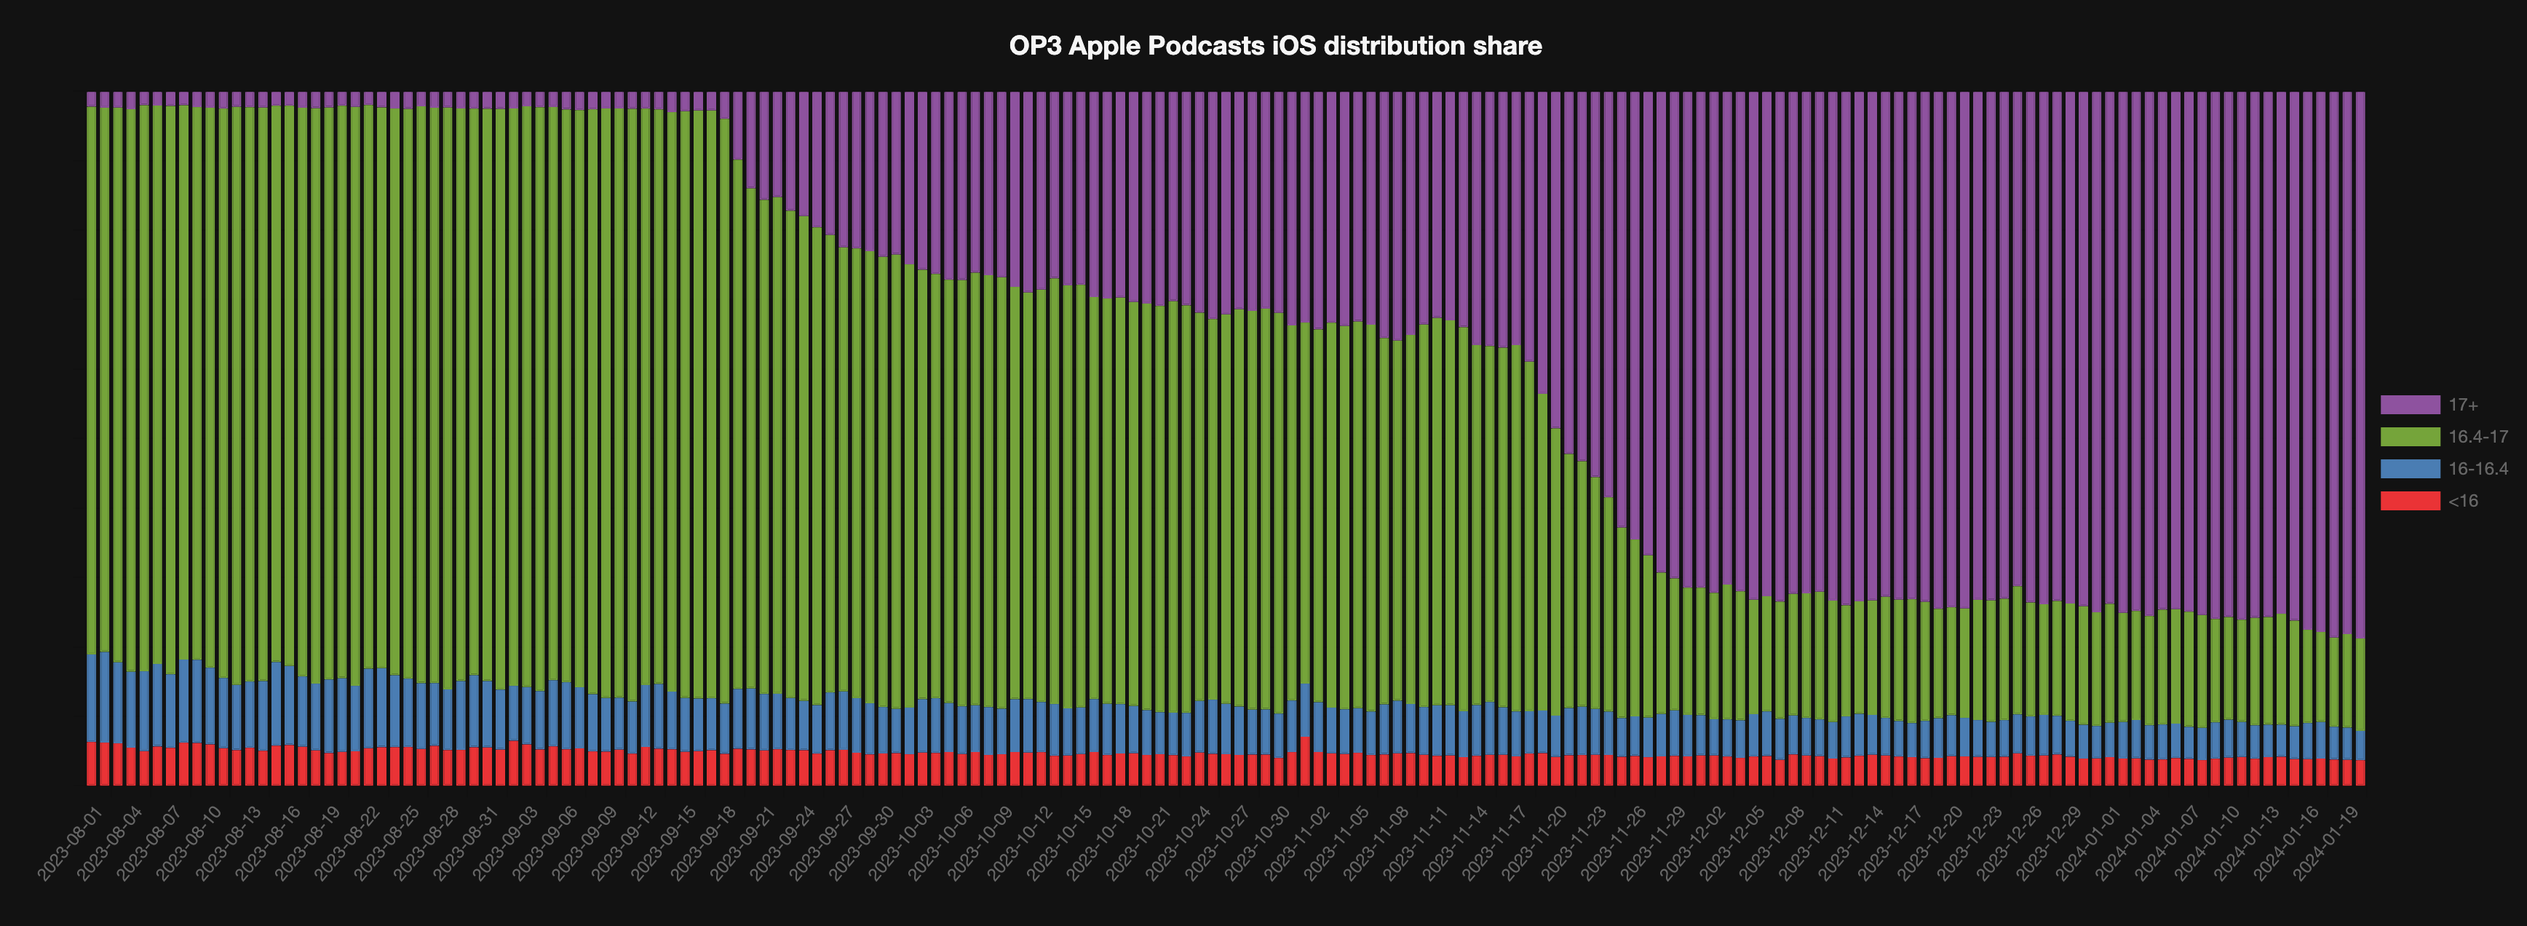
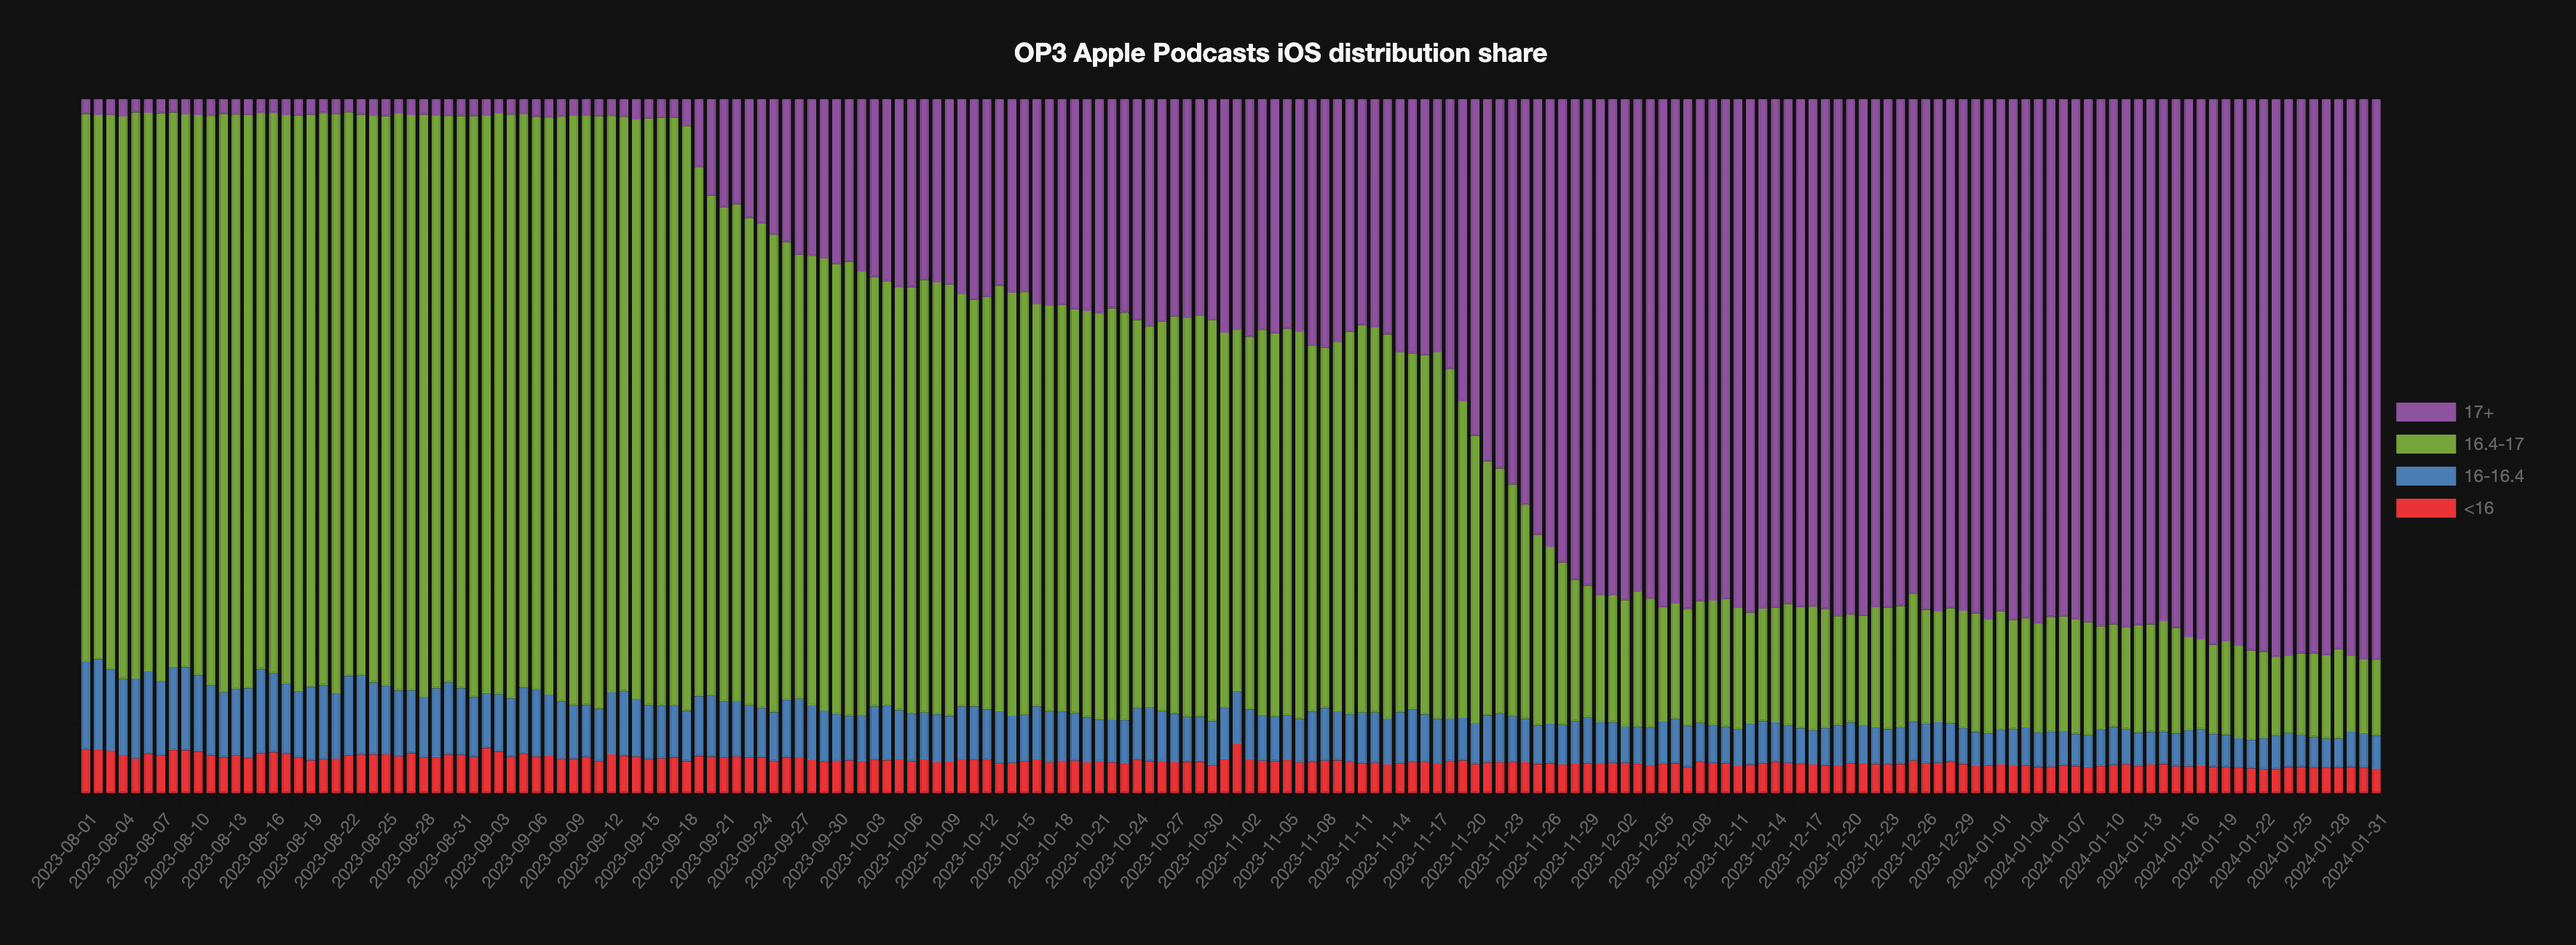
Updated ios17 post.

diff --git a/content/posts/tracking-apple-podcasts-ios17-changes.md b/content/posts/tracking-apple-podcasts-ios17-changes.md
@@ -5,11 +5,11 @@ slug: "tracking-apple-podcasts-ios17-changes"
 images:
 - tracking-apple-podcasts-ios17-changes.png
 date: 2023-11-24T13:17:00-06:00
-lastmod: 2024-01-21T10:31:00-06:00
+lastmod: 2024-02-01T17:18:00-06:00
 draft: false
 ---
 
-_(Updated with data through 2024-01-20)_
+_(Updated with data through 2024-01-31)_
 
 Apple made a change to [auto-downloading in Apple Podcasts in iOS 17](https://podcasters.apple.com/5349-ios-17-automatic-download-improvements), are we seeing a difference in downloads?
 
@@ -200,9 +200,20 @@ Date	17+	16.4-17	16-16.4	<16
 2024-01-18	78.66424640562423	12.837467945947504	4.722390295905725	3.7758953525225456
 2024-01-19	78.15487072342648	13.474797597283885	4.62653434317054	3.743797336119091
 2024-01-20	78.79501017429001	13.293815801114746	4.221887994337786	3.6892860302574535
+2024-01-21	79.48834903321766	12.856717897868123	4.095190877540903	3.5597421913733265
+2024-01-22	79.67682591017213	12.43716384856048	4.469129726626123	3.416880514641263
+2024-01-23	80.3807709521569	11.373782118224906	4.773981799194391	3.471465130423806
+2024-01-24	80.2591364478482	11.087641457111502	4.88417922424271	3.7690428707975876
+2024-01-25	79.87899106838839	11.711935880981692	4.645223814138663	3.7638492364912652
+2024-01-26	79.8859645902923	12.04223714960418	4.434166574899975	3.6376316852035386
+2024-01-27	80.13621658436915	12.027924399795676	4.202281627788183	3.633577388046995
+2024-01-28	79.29231265405792	12.868299200626598	4.174249579580271	3.6651385657352162
+2024-01-29	80.24963010736371	10.894760802761864	5.095982396904283	3.759626692970143
+2024-01-30	80.70270091718875	10.670439656026689	4.991136411182436	3.6357230156021187
+2024-01-31	80.79512318049272	10.933243732974931	4.774819099276397	3.4968139872559494
 {{< /graph >}}
 
-We can see that iOS 17 is rolling out quite quickly, with a few beta testers in August, then an initial rise after September 18, a large increase starting November 19, plateauing in December to a level where _over 3 out of 4 AP listeners have iOS 17+_, inching closer to 80%.
+We can see that iOS 17 is rolling out quite quickly, with a few beta testers in August, then an initial rise after September 18, a large increase starting November 19, plateauing in December/January to a level where _over 4 out of 5 AP listeners have iOS 17+_, crossing 80%.
 
 We show pre-post 16.4 as well, since that was when Apple Podcasts made another change, [no longer using the AppleCoreMedia user-agents for some requests](/apple-podcasts-vs-applecoremedia).
 
@@ -531,6 +542,17 @@ Date	Apple Podcasts	AppleCoreMedia	Spotify	NRC	Other
 2024-01-18	20.79353369777717	2.1656312786497627	54.74576298191749	4.584918016070157	17.710154025585425
 2024-01-19	27.95388988358858	3.199262776748012	44.226662486824026	1.0153651295926547	23.604819723246727
 2024-01-20	29.229500283778982	3.483851119468299	40.84613874935686	3.470855633410599	22.969654213985265
+2024-01-21	19.99795273126894	2.3914416441499298	59.246025691291194	1.4948924507931234	16.86968748249682
+2024-01-22	24.859422935341737	2.5638445850880514	51.556688370072614	1.0725538951944285	19.94749021430317
+2024-01-23	30.79644578190765	2.7398792216506376	43.875073707326	0.4168276366889653	22.171773652426747
+2024-01-24	33.28225122902187	3.0841385545572697	41.29739503870712	0.35847883822116744	21.97773633949257
+2024-01-25	32.096361796833705	3.1835174639013997	40.057786462755715	0.28080011289408285	24.381534163615097
+2024-01-26	33.75571574333006	3.6320950797369815	34.29020860101277	0.24799712795707052	28.07398344796312
+2024-01-27	33.95014731733888	3.893077323033499	36.046324494293	0.5666765703533141	25.543774294981308
+2024-01-28	31.23877917414722	4.331011176215673	35.02062993215611	0.6128892465795828	28.796690470901414
+2024-01-29	34.53064676475312	3.2540523177448115	34.774405900638165	1.2755169462408438	26.165378070623056
+2024-01-30	33.10585557422945	2.989778336346354	39.42196629796902	1.6236401669206364	22.858759624534535
+2024-01-31	30.01074825340882	3.0128437462245716	40.89231333241681	3.8485412787088764	22.235553389240913
 {{< /graph >}}
 
 {{< graph agent-share-ten-daily-all "OP3 podcast app share (ten-daily, all shows)" "limit:100,height:600px,type:stacked-bar">}}
@@ -552,6 +574,7 @@ Date	Apple Podcasts	AppleCoreMedia	Spotify	NRC	Other
 2023-12-21	32.30008805066404	3.873958084088045	32.38088588864404	2.366115881181085	29.07895209542279
 2024-01-01	31.310508362625235	3.5967833569670065	35.15224088794867	2.4154557295876655	27.525011662871425
 2024-01-11	26.891177530175213	3.028773533794478	44.47008502681572	2.5612927484100885	23.0486711608045
+2024-01-21	30.247637599344184	3.089861425581633	42.46479805835771	1.1336257783208408	23.064077138395632
 {{< /graph >}}
 
 {{< graph agent-share-monthly-all "OP3 podcast app share (monthly, all shows)" "limit:100,height:600px,type:stacked-bar">}}
@@ -561,13 +584,13 @@ Date	Apple Podcasts	AppleCoreMedia	Spotify	NRC	Other
 2023-10	38.4274842787035	4.278142446986713	28.411312797116373	2.6914541121826985	26.191606365010717
 2023-11	37.56132504508113	3.8999039772641324	31.666984205851513	1.5742271895888968	25.29755958221433
 2023-12	33.32705472246179	3.9298173467577704	31.495270000687164	2.4334659902954976	28.81439193979778
-2024-01	28.858068233036434	3.2815749833099748	40.32303614039253	2.49638575517288	25.040934888088177
+2024-01	29.39900832163329	3.2069435533020254	41.156794360563936	1.9658821901919241	24.271371574308827
 {{< /graph >}}
 
 Some notes:
  - OP3 added a few large shows in August and January, so Spotify will be over-represented in that month as Spotify redownloads episodes whenever the episode enclosure url changes.  You can see exactly when in the daily graph.
  - OP3 measures some [NRC](https://www.nrc.nl/index/podcast/) shows, and NRC has their own apps, so their app's share temporarily squeezes every other app's share when they release popular episodes.  Included in the app list above so you can see the effect.
- - Still too early to tell looking at all shows in aggregate, although Apple Podcasts does appear to have consistently lower share once iOS17 hit the majority of listeners.  Something to keep an eye on in the coming weeks and months.
+ - Apple Podcasts does appear to have consistently lower share once iOS17 hit the majority of listeners.  Something to keep an eye on in the coming weeks and months.
 
 ---
 ## Narrowing it down
@@ -761,6 +784,17 @@ Date	Apple Podcasts	AppleCoreMedia	Spotify	NRC	Other
 2024-01-18	58.64112458654907	3.4408305769937524	8.792723263506064	0	29.12532157295112
 2024-01-19	57.37148862984903	3.9652207146952034	8.866806802981081	0	29.79648385247468
 2024-01-20	59.1756850103615	3.7589224038682936	9.854938982270319	0	27.210453603499886
+2024-01-21	56.75121506682868	3.9641555285540706	11.360874848116646	0	27.923754556500608
+2024-01-22	59.18711796368944	3.3208648845908217	8.735516832405803	0	28.756500319313933
+2024-01-23	54.53399596658024	2.6577355229040625	8.113656006914434	0	34.69461250360127
+2024-01-24	55.537162721403746	2.7478894222810792	6.621420294653204	0	35.09352756166197
+2024-01-25	52.5726185774299	3.8885497827726114	6.6748052134573275	0	36.86402642634017
+2024-01-26	53.63698164513936	3.1356220258327667	8.463630183548606	0	34.763766145479266
+2024-01-27	53.595966312056746	4.122340425531915	9.507978723404255	0	32.773714539007095
+2024-01-28	53.7307514374463	4.130592822681911	9.093913158416497	0	33.04474258145529
+2024-01-29	57.4693807141625	3.62256339485941	8.939968949456615	0	29.968086941521477
+2024-01-30	55.19601250049448	4.390996479291111	9.260651133351793	0	31.152339886862613
+2024-01-31	52.382870183917305	3.0473889112632566	7.212377500335615	0	37.35736340448382
 {{< /graph >}}
 
 {{< graph agent-share-ten-daily-subset "OP3 podcast app share (ten-daily, 38 Apple-heavy shows)" "limit:100,height:600px,type:stacked-bar">}}
@@ -782,6 +816,7 @@ Date	Apple Podcasts	AppleCoreMedia	Spotify	NRC	Other
 2023-12-21	54.01390824091645	4.447358632125136	7.461020988456034	0	34.07771213850238
 2024-01-01	56.64676017744582	3.919055537447587	8.901018158916763	0	30.53316612618983
 2024-01-11	58.42277277741693	3.5136556246327055	9.32386873279515	0	28.73970286515522
+2024-01-21	54.83641536273115	3.464742938427149	8.273021430916168	0	33.42582026792553
 {{< /graph >}}
 
 {{< graph agent-share-monthly-subset "OP3 podcast app share (monthly, 38 Apple-heavy shows)" "limit:100,height:600px,type:stacked-bar">}}
@@ -791,21 +826,21 @@ Date	Apple Podcasts	AppleCoreMedia	Spotify	NRC	Other
 2023-10	65.37621737774235	3.9634006862371334	6.5225799743527535	0	24.137801961667765
 2023-11	63.109407034640675	3.8358949299026266	6.563513655322341	0	26.491184380134353
 2023-12	57.00601575981001	4.04132251800077	7.176009856050785	0	31.77665186613843
-2024-01	57.56548684129824	3.7093432249152665	9.119757652687074	0	29.605412281099415
+2024-01	56.45856415767542	3.610132336647694	8.776317937646915	0	31.154985568029975
 {{< /graph >}}
 
-After isolating to shows likely to have the most dramatic effect, we see a drop in Apple Podcasts share of downloads of 8-10%, vs 6-8% drop in Apple Podcasts share across all shows.
+After isolating to shows likely to have the most dramatic effect, we see a drop in Apple Podcasts share of downloads of 9-11%, vs 6-8% drop in Apple Podcasts share across all shows.
 
 The share of Apple Podcasts downloads for these 38 Apple-heavy shows went:
  - from 65.52% in August to 63.11% in November (-2.41%)
  - from 66.89% in September to 63.11% in November (-3.78%)
  - from 65.52% in August to 57.01% in December (-8.51%)
  - from 66.89% in September to 57.01% in December (-9.88%)
- - from 65.52% in August to 57.57% in January MTD (-7.95%)
- - from 66.89% in September to 57.57% in January MTD (-9.32%)
+ - from 65.52% in August to 56.46% in January (-9.06%)
+ - from 66.89% in September to 56.46% in January (-10.43%)
 
 Once again, it's very difficult to keep everything else constant when trying to identify the effect from the iOS 17 change alone.
-December is traditionally a slumping month for publishing and listening, we'll be able to say for sure whether these changes are durable after a full January.
+December is traditionally a slumping month for publishing and listening, but now that we've seen a full January we can say this change seems to be durable.
 
 We'll keep an eye on it, and update these numbers periodically.
 
@@ -813,6 +848,8 @@ We'll keep an eye on it, and update these numbers periodically.
 Data collected and visualized by [John Spurlock](https://twitter.com/johnspurlock)
 
 ---
+
+*Updated 2024-02-01, with eleven new days of data.*
 
 *Updated 2024-01-21, with ten new days of data.*
 

diff --git a/content/_index.md b/content/_index.md
@@ -1,18 +1,18 @@
 ---
 title: "livewire.io: Podcasting ▷ Forward"
 date: 2023-01-15T18:32:00-06:00
-lastmod: 2024-02-01T11:06:00-06:00
+lastmod: 2024-02-01T17:18:00-06:00
 ---
 
 {{< p index-subhead "Podcasting ▷ Forward" >}}
 
 ---
 
+New data: [Impact of Apple Podcasts auto-downloading changes in iOS 17](/tracking-apple-podcasts-ios17-changes)
+
 New graphs: [Buzzsprout Statistics, visualized](/buzzsprout-stats-visualized)
 
 New graphs: [Libsyn Statistics, visualized](/libsyn-stats-visualized)
-
-New data: [Impact of Apple Podcasts auto-downloading changes in iOS 17](/tracking-apple-podcasts-ios17-changes)
 
 New data: [Top Podcast CDNs by Episode Share (Dec 2023)](/podcast-cdns-by-episode-share)
 
